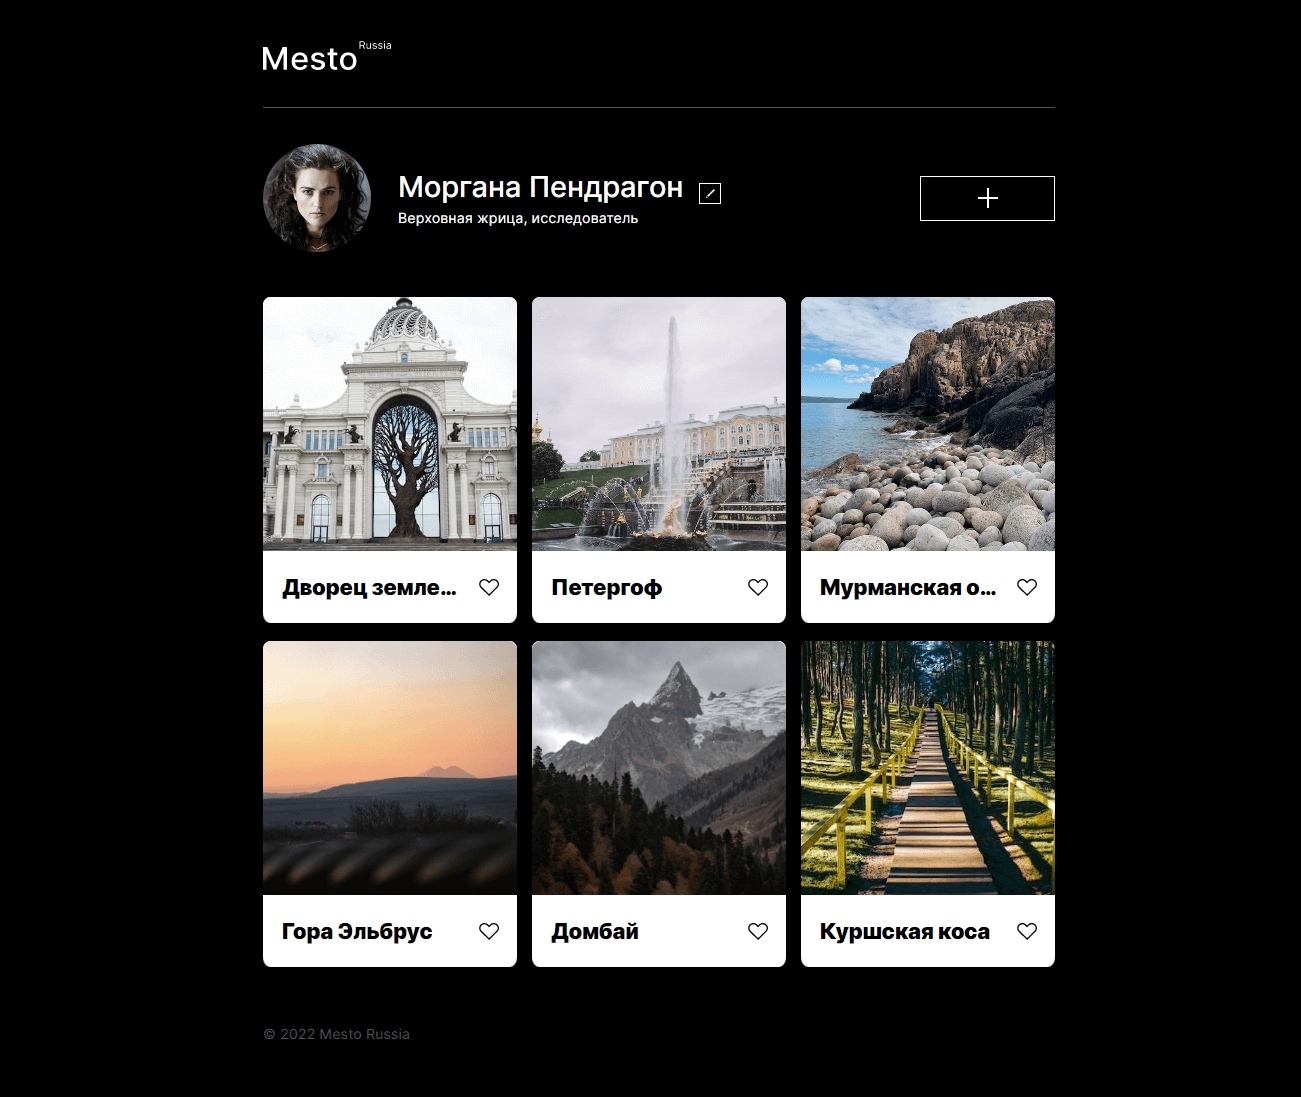
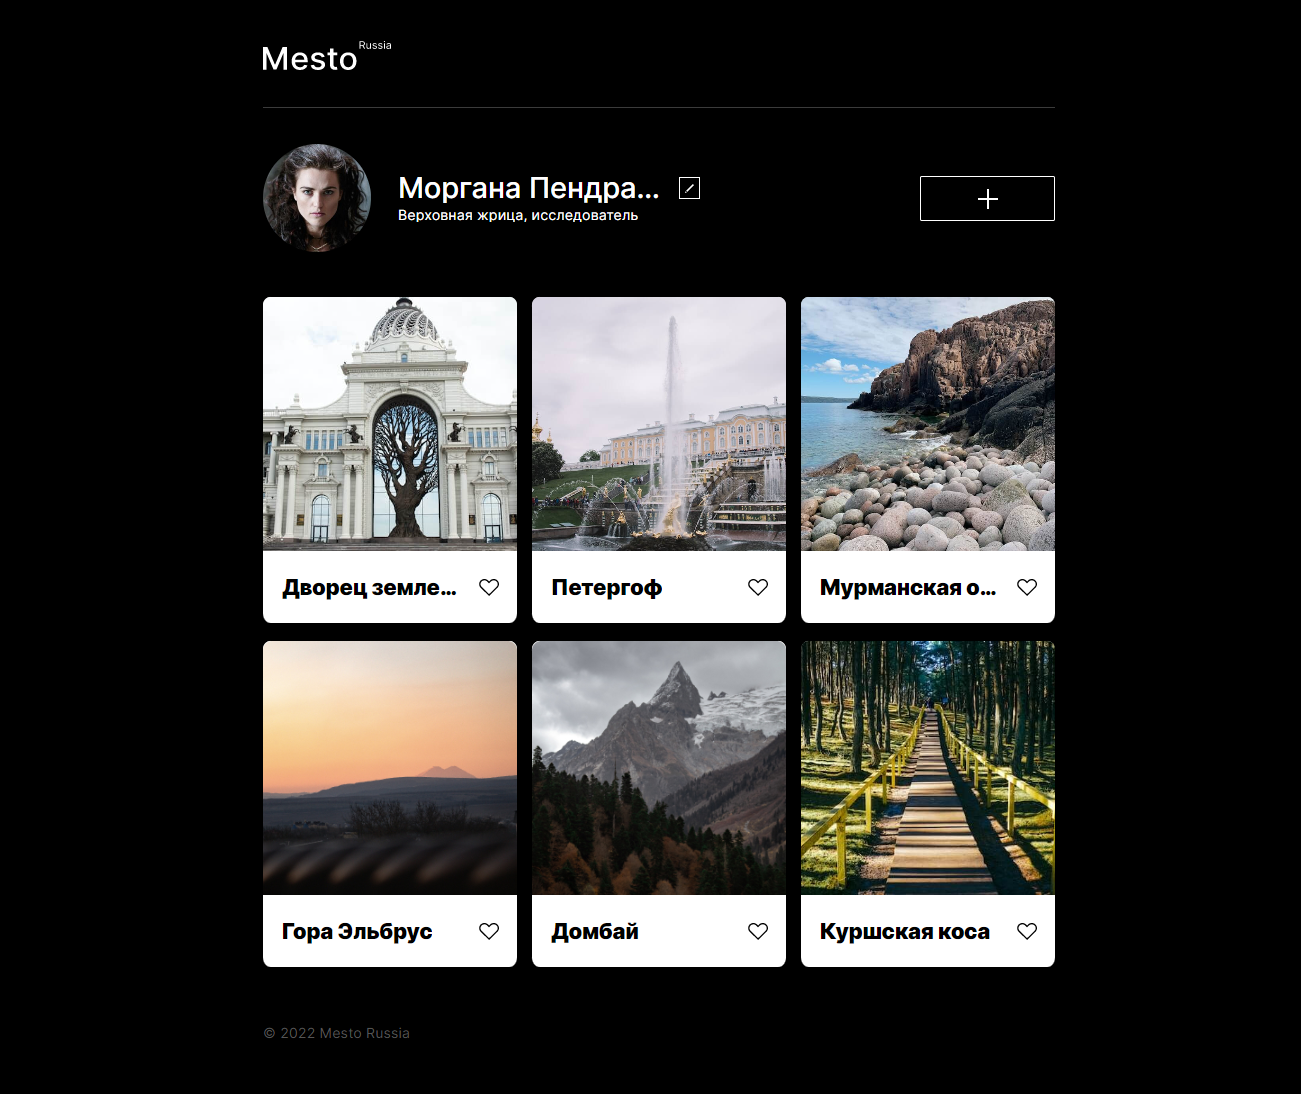
hotfix: bug-maket

diff --git a/blocks/profile/profile.css b/blocks/profile/profile.css
@@ -1,5 +1,5 @@
 .profile {
-    margin-top: 40px;
+    margin: 40px 0 0 0;
     width: 100%; /* min-width: 863px; 637 + 113 * 2 = 863 */
     display: flex;
     flex-wrap: wrap;
@@ -9,7 +9,7 @@
 @media screen and (max-width: 862px) {
 
     .profile {
-        margin-top: 42px;
+        margin: 42px 0 0 0;
         flex-direction: column;
     }
 }
@@ -17,6 +17,7 @@
 @media screen and (max-width: 320px) {
 
     .profile {
+        margin: 42px auto 0 auto;
         max-width: calc(100vw - 2 * 19px);
     }
 }

diff --git a/blocks/profile/__intro/profile__intro.css b/blocks/profile/__intro/profile__intro.css
@@ -4,6 +4,7 @@
     grid-template-columns: repeat(2, max-content);
     column-gap: 18px;
     row-gap: 6px; /* row-gap: 16px; */
+    align-items: center;
 }
 
 @media screen and (max-width: 862px) {
@@ -13,6 +14,7 @@
         width: 100%;
         text-align: center;
         justify-content: center;
+        justify-items: center;
         column-gap: 10px;
         row-gap: 14px;
     }

diff --git a/blocks/profile/__intro-text/profile__intro-text.css b/blocks/profile/__intro-text/profile__intro-text.css
@@ -3,6 +3,7 @@
     max-width: 336px;
     font-style: normal;
     font-weight: 400;
+    line-height: 1;
     grid-column-start: 1;
     grid-column-end: span 2;
 }
@@ -11,7 +12,6 @@
 
     .profile__intro-text {
         font-size: calc((100vw - 320px)/(1280 - 320) * (18 - 14) + 14px);
-        line-height: calc((100vw - 320px)/(1280 - 320) * (21.78 - 16.94) + 16.94px);
     }
 }
 

diff --git a/blocks/profile/__intro-title/profile__intro-title.css b/blocks/profile/__intro-title/profile__intro-title.css
@@ -3,13 +3,13 @@
     max-width: 294px;
     font-style: normal;
     font-weight: 500;
+    line-height: 1;
 }
 
 @media screen and (min-width: 320px) and (max-width: 1280px) {
 
     .profile__intro-title {
         font-size: calc((100vw - 320px)/(1280 - 320) * (42 - 27) + 27px);
-        line-height: calc((100vw - 320px)/(1280 - 320) * (48 - 32.68) + 32.68px);
     }
 }
 

diff --git a/blocks/footer/__copyright/footer__copyright.css b/blocks/footer/__copyright/footer__copyright.css
@@ -2,6 +2,7 @@
     margin: 0;
     font-style: normal;
     font-weight: 400;
+    line-height: 1;
     color: #545454;
 }
 
@@ -9,6 +10,5 @@
 
     .footer__copyright {
         font-size: calc((100vw - 320px)/(1280 - 320) * (18 - 14) + 14px);
-        line-height: calc((100vw - 320px)/(1280 - 320) * (22 - 16.94) + 16.94px);
     }
 }

diff --git a/blocks/profile/__intro-edit-button/profile__intro-edit-button.css b/blocks/profile/__intro-edit-button/profile__intro-edit-button.css
@@ -1,5 +1,4 @@
 .profile__intro-edit-button {
-    margin-top: 14px;
     padding: 0;
     width: 24px;
     height: 24px;
@@ -13,7 +12,6 @@
 @media screen and (max-width: 862px) {
 
     .profile__intro-edit-button {
-        margin-top: 6px;
         width: 18px;
         height: 18px;
         background-size: 7.5px 7.5px;

diff --git a/blocks/cards/cards.css b/blocks/cards/cards.css
@@ -1,12 +1,12 @@
 .cards {
-    margin-top: 50px;
+    margin: 50px 0 0 0;
     width: 100%;
 }
 
 @media screen and (max-width: 320px) {
 
     .cards {
-        margin-top: 36px;
+        margin: 36px auto 0 auto;
         max-width: calc(100vw - 2 * 19px);
     }
 }

diff --git a/blocks/profile/__add-button/profile__add-button.css b/blocks/profile/__add-button/profile__add-button.css
@@ -14,7 +14,7 @@
 @media screen and (max-width: 862px) {
 
     .profile__add-button {
-        margin: 20px 0 0 0; /* margin: 36px 0 0 0; */
+        margin: 35px 0 0 0; /* margin: 36px 0 0 0; */
         width: 100%;
         background-size: 16px 16px;
     }
